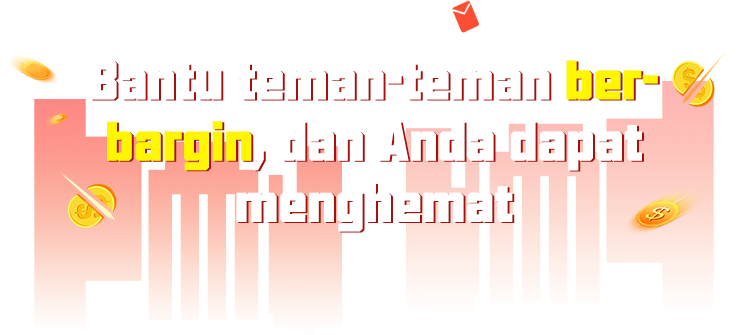
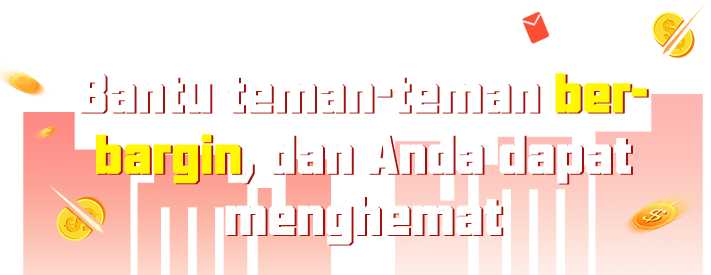
feat: 印尼语样式初步调整完成

diff --git a/src/language/lib/id.js b/src/language/lib/id.js
@@ -18,13 +18,13 @@ export default {
         meTab: 'ME',
     },
     dialogShareEarningEntry: {
-        yourFriendsHelpYouSave: 'Your friends help you save',
-        goBuyNow: 'Go buy now',
+        yourFriendsHelpYouSave: 'Teman membantu Anda menghemat',
+        goBuyNow: 'Beli sekarang',
         fenxiangzhuang: require('@/assets/images/id-fenxiangzhuang.png'),
     },
     dialogSharingFriends: {
         shareToFriendsAndYouCanGetFreebiesFaster: 'Tip: Bagikan kepada teman dan anda akan mendapatkan freebies lebih cepat.',
-        helpYourselfCutDown: 'Help yourself cut down',
+        helpYourselfCutDown: 'Bantu dirimu mengurangi',
         shareBackground: require('@/assets/images/id-share-background.png'),
         copylink: require('@/assets/images/id-copylink.png'),
     },
@@ -108,7 +108,7 @@ export default {
         completed: 'lengkap',
         cut: 'memotong',
         goOn: 'Lanjutkan',
-        toBuy: 'Untuk membeli',
+        toBuy: 'Beli',
         bargainFinishBanner: require('@/assets/images/id-bargain-finish-banner.png'),
         barginActiveBanner: require('@/assets/images/id-bargin-active-banner.png'),
     },

diff --git a/src/views/bargain.scss b/src/views/bargain.scss
@@ -4,10 +4,10 @@
 
     > .bargain-header {
         position: relative;
-        padding: 40px 10px 10px 10px;
+        padding: 40px 10px 40px 10px;
         // height: 400px;
-        background: url('~@/assets/images/bargain-bg-1.png') no-repeat;
-        background-size: 100%;
+        // background: url('~@/assets/images/bargain-bg-1.png') no-repeat;
+        // background-size: 100%;
         > .bargain-info-box {
             position: relative;
             border-radius: 20px;
@@ -65,12 +65,9 @@
                             display: flex;
                             align-items: flex-end;
                             > .price-box-item {
-                                // width: 100px;
-                                flex: 1;
+                                // flex: 1;
                                 &:nth-of-type(2) {
                                     width: 100px;
-                                    // margin-left: 6px;
-                                    // flex: auto;
                                 }
                                 > .p-t-1 {
                                     font-size: 12px;

diff --git a/src/components/dialogs/dialogSharingFriends.vue b/src/components/dialogs/dialogSharingFriends.vue
@@ -26,8 +26,8 @@
   position: relative;
 
   .tip {
-    width: 463px;
-    font-size: 30px;
+    width: 580px;
+    font-size: 28px;
     font-weight: bold;
     text-align: center;
     color: rgba(255, 255, 255, 1);
@@ -42,7 +42,7 @@
     font-weight: bold;
     color: rgba(211, 12, 5, 1);
     text-align: center;
-    margin-bottom: 21px;
+    margin-bottom: 48px;
   }
 
   .share-types {
@@ -73,7 +73,7 @@
     position: absolute;
     width: 429px;
     height: 81px;
-    bottom: 50px;
+    bottom: 40px;
     left: 0;
     right: 0;
     margin: 0 auto;

diff --git a/src/views/bargain.vue b/src/views/bargain.vue
@@ -63,7 +63,7 @@
               @click="goChopShare">{{$t('bargain.cutAKnife')}}</div>
             <div class="buy-btn"
               v-if="bargain_info.can_buy&&bargain_info.can_buy==1"
-              @click="jumpBuyPage">Rp {{bargain_info.bargain_after}} {{bargain.buyNow}}</div>
+              @click="jumpBuyPage">Rp {{bargain_info.bargain_after}} {{$t('bargain.buyNow')}}</div>
             <div class="buy-btn cur"
               v-else>
               <!-- Rp {{bargain_info.left_amount}} buy now -->

diff --git a/src/views/purchase/index.scss b/src/views/purchase/index.scss
@@ -155,6 +155,7 @@
             .commodity-num {
                 flex: 1;
                 text-align: right;
+                font-size: 30px;
             }
         }
     }
@@ -293,7 +294,7 @@
         line-height: 98px;
         text-align: center;
         background: linear-gradient(90deg, rgba(211, 12, 5, 1) 0%, rgba(246, 78, 1, 1) 100%);
-        font-size: 32px;
+        font-size: 28px;
         font-weight: 400;
         color: rgba(255, 255, 255, 1);
     }

diff --git a/src/views/forBargain.scss b/src/views/forBargain.scss
@@ -2,14 +2,14 @@
     background: linear-gradient(45deg, rgba(232, 43, 35, 1), rgba(253, 84, 72, 1));
 
     .banner-box {
-        padding-top: 31px;
+        padding-top: 10px;
         width: 100vw;
         height: 293px;
         text-align: center;
         position: relative;
 
         .banner-img {
-            width: 717px;
+            width: 100%;
             height: auto;
         }
     }

diff --git a/src/views/isBargainingList.vue b/src/views/isBargainingList.vue
@@ -252,7 +252,7 @@
     display: inline-block;
     margin-left: 10px;
     position: relative;
-    width: 262px;
+    width: 248px;
     height: 10px;
     background: rgba(255, 255, 255, 1);
     border: 1px solid rgba(252, 123, 119, 1);
@@ -285,6 +285,7 @@
     height: 150px;
     display: flex;
     flex-direction: column-reverse;
+    font-size: 20px;
   }
 }
 </style>

diff --git a/src/views/purchase/index.vue b/src/views/purchase/index.vue
@@ -41,7 +41,7 @@
     </div>
 
     <img v-lazy="require('@/assets/images/Addressmodification.png')"
-      style="width:100vw;height:auto;margin-bottom:50px;">
+      style="width:100vw;height:auto;margin-bottom:20px;">
 
     <div class="commodity-info">
       <img v-lazy="spu.spu_pics&&spu.spu_pics[0]||require('@/assets/images/add.png')"

diff --git a/src/components/commodity/commodityItem.vue b/src/components/commodity/commodityItem.vue
@@ -85,7 +85,7 @@
         );
       
         &::before {
-          background: url("~@/assets/images/btn-1.png") no-repeat 0 0/100% auto;
+          background: url("~@/assets/images/btn-1.png") no-repeat 0 0/auto 100%;
         }
       }
       &.button-r {

diff --git a/src/components/dialogs/dialogOldUsersHelpCutSuccessfully.vue b/src/components/dialogs/dialogOldUsersHelpCutSuccessfully.vue
@@ -100,7 +100,7 @@
 
           <div class="take-btn"
             @click="$router.push('/')">
-            {{forBargain.alsoTakeItForFree}}
+            {{$t('forBargain.alsoTakeItForFree')}}
           </div>
 
         </div>

diff --git a/src/components/dialogs/dialogShareEarningEntry.vue b/src/components/dialogs/dialogShareEarningEntry.vue
@@ -15,7 +15,7 @@
     text-align: center;
     > .top-tips {
       margin-top: 400px;
-      font-size: 28px;
+      font-size: 26px;
       font-weight: bold;
       color: rgba(108, 12, 6, 1);
       line-height: 47px;

diff --git a/src/components/dialogs/dialogLoginSelect.vue b/src/components/dialogs/dialogLoginSelect.vue
@@ -14,7 +14,7 @@
   .dialog-content {
     width: 610px;
     // height: 600px;
-    height: 780px;
+    height: 790px;
     border-radius: 20px;
     background: #d30c05;
     padding-top: 104px;
